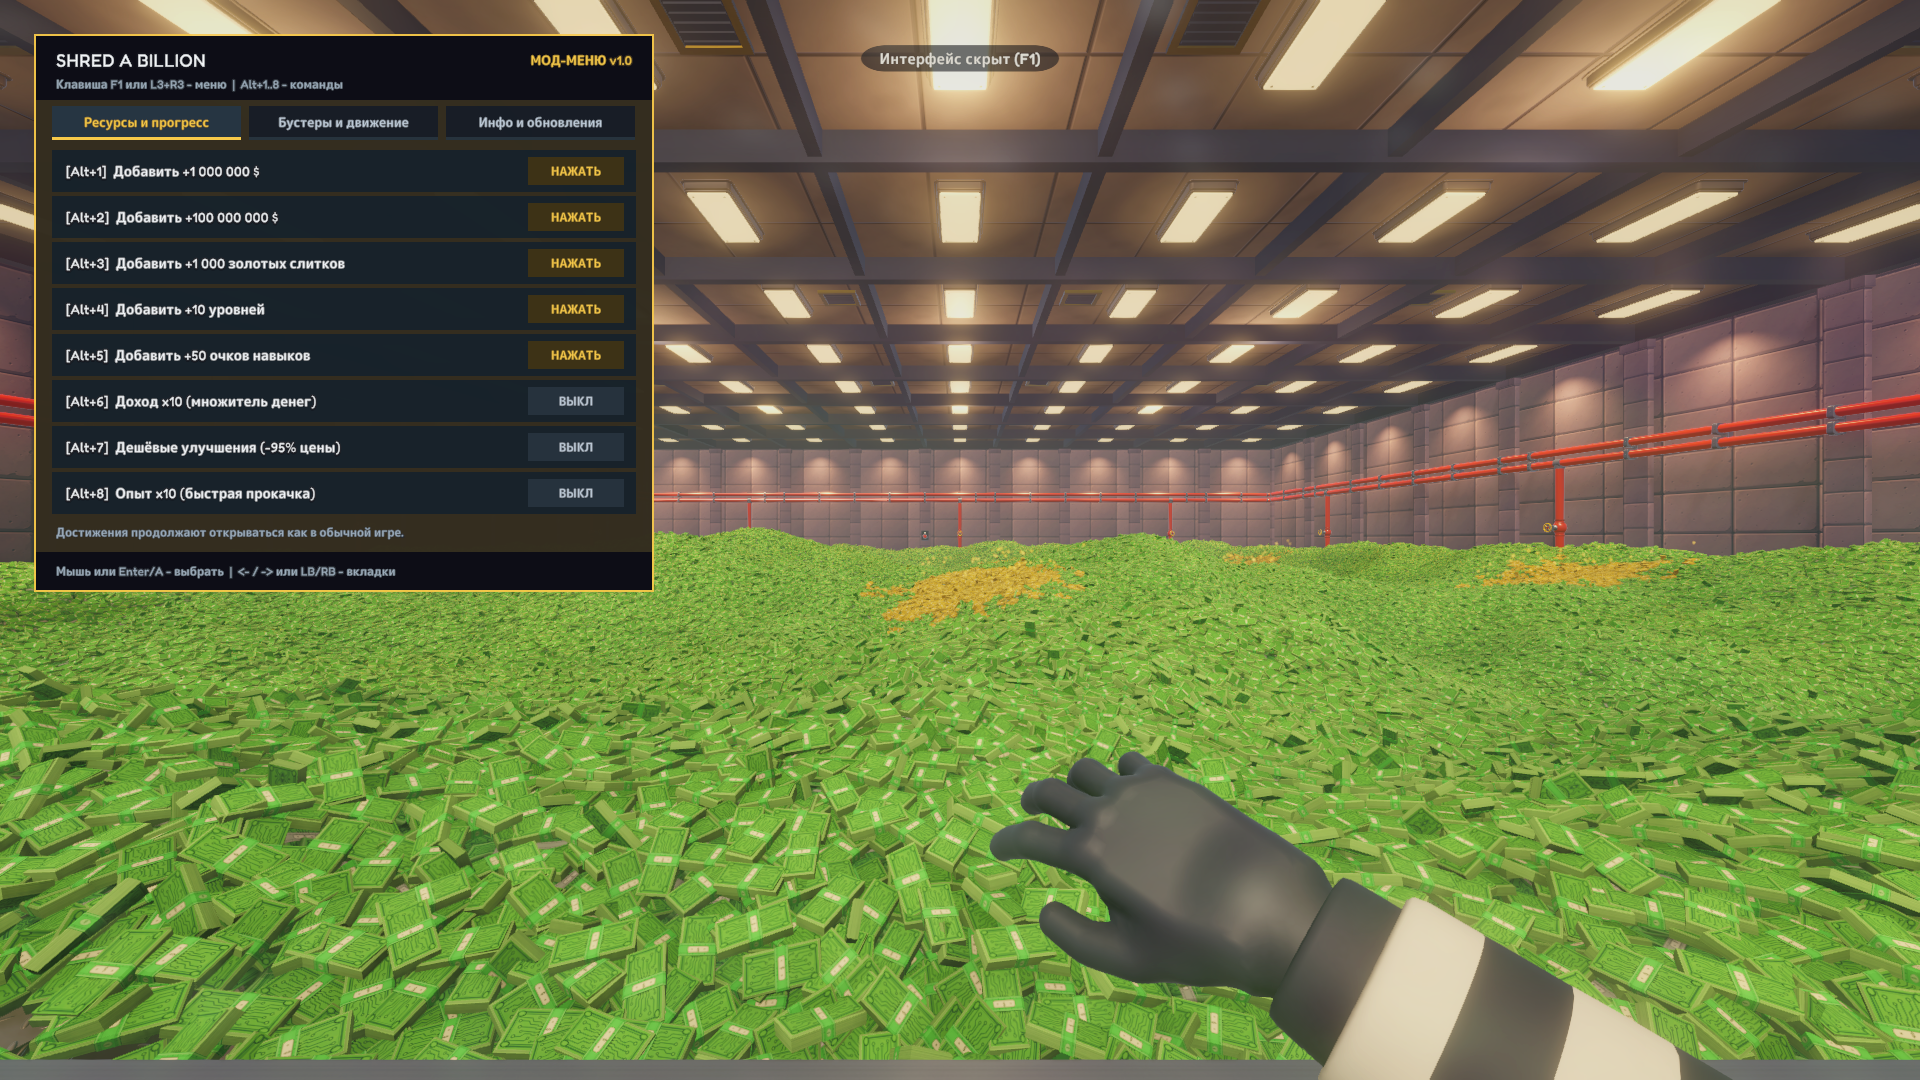
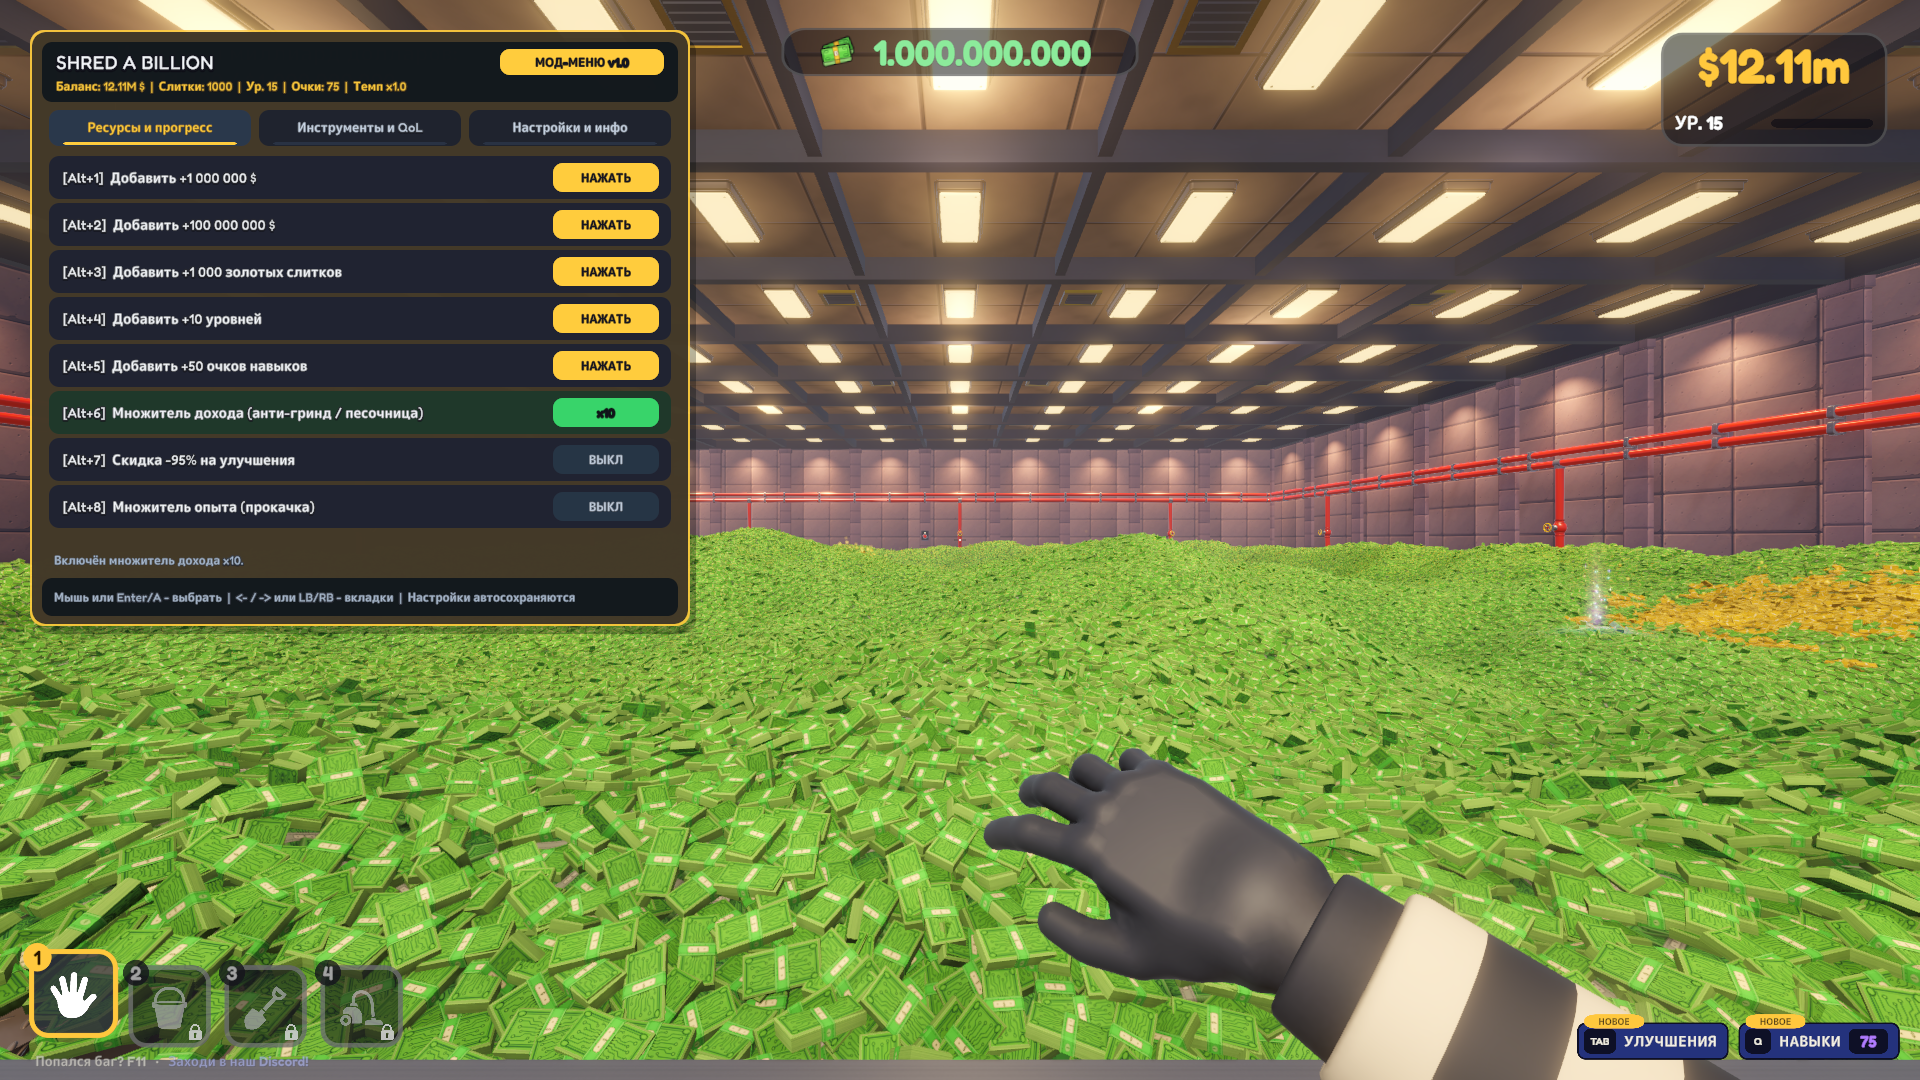
Обновить обложку, скриншоты, UTM-ссылки и стартовое сохранение v1.0

diff --git a/README.md b/README.md
@@ -1,11 +1,11 @@
-# SHRED A BILLION - Внутриигровое мод-меню, CheatMod и таблица Cheat Engine (.CT)
+# SHRED A BILLION - Внутриигровое мод-меню, стартовое сохранение и таблица Cheat Engine (.CT)
 
-Русское внутриигровое мод-меню (`v1.0`), чистое стартовое сохранение `CheatMod` и таблица Cheat Engine для **SHRED A BILLION** (Steam AppID `5472080`, проверено на версии `1.0.23`). Достижения продолжают открываться как в обычной игре, а вернуть чистую оригинальную игру можно в один клик без перекачивания в Steam.
+Русское внутриигровое мод-меню (`v1.0`), стилизованное под интерфейс **SHRED A BILLION**, готовое стартовое сохранение и таблица Cheat Engine (Steam AppID `5472080`, проверено на версии `1.0.23`). Достижения продолжают открываться как в обычной игре, а вернуть чистую оригинальную игру можно в один клик без перекачивания в Steam.
 
 ## Скачать
-- **[Страница релиза на Boosty (мод-меню на русском: открытый доступ через 48 часов, ранний доступ для подписчиков)](https://boosty.to/cd_tixo/posts/91615b98-617b-4e4e-8056-baf6eca9ae71)**
-- **[Каталог всех проектов автора на Boosty](https://boosty.to/cd_tixo/posts/2a55d7e9-0f53-4d93-9f66-280981158dec)**
-- **[GitHub Releases (открытая таблица .CT и CheatMod уже доступны)](https://github.com/neoru-droid/shred-a-billion-mod-ru/releases)**
+- **[Страница релиза на Boosty (мод-меню v1.0 с автосохранением и QoL - ранний доступ 48 часов, далее открыто всем)](https://boosty.to/cd_tixo/posts/91615b98-617b-4e4e-8056-baf6eca9ae71?utm_source=github&utm_medium=readme&utm_campaign=shred_a_billion)**
+- **[Каталог всех проектов автора на Boosty](https://boosty.to/cd_tixo/posts/2a55d7e9-0f53-4d93-9f66-280981158dec?utm_source=github&utm_medium=readme&utm_campaign=shred_a_billion)**
+- **[GitHub Releases (открытая таблица .CT и стартовое сохранение уже доступны)](https://github.com/neoru-droid/shred-a-billion-mod-ru/releases)**
 
 Поддерживаются **Windows 10 / 11** и **Steam Deck / Linux (Proton)**.
 
@@ -14,7 +14,7 @@
 ## Установка мод-меню
 1. **Windows:** закройте игру, распакуйте архив и запустите `ShredABillion-Trainer-Setup.exe` -> **«Установить мод-меню»**.
 2. **Steam Deck / Linux (Proton):** распакуйте архив и выполните `sh install-steamdeck.sh`, затем добавьте параметр запуска Steam: `WINEDLLOVERRIDES="winhttp=n,b" %command%`.
-3. **Управление в игре:** клавиша `F1` (или `L3 + R3` на геймпаде) открывает оверлей; `Alt+1..8` запускают быстрые команды.
+3. **Управление в игре:** клавиша `F1` или `F2` (либо `L3 + R3` на геймпаде) открывает оверлей; `Alt+1..8` запускают быстрые команды.
 
 ## Возможности внутриигрового мод-меню
 
@@ -28,14 +28,19 @@
 - `Alt+3` - Добавить +1 000 золотых слитков
 - `Alt+4` - Добавить +10 уровней
 - `Alt+5` - Добавить +50 очков навыков
-- `Alt+6` - Доход x10 (множитель денег)
-- `Alt+7` - Дешёвые улучшения (-95% цены)
-- `Alt+8` - Опыт x10 (быстрая прокачка)
+- `Alt+6` - Множитель дохода (`Выкл` / `x2` / `x10` / `x100`)
+- `Alt+7` - Скидка `-95%` на все улучшения
+- `Alt+8` - Множитель опыта (`Выкл` / `x2` / `x10` / `x100`)
 
-### Вкладка «Бустеры и движение»
-- Режим полёта и проход сквозь стены (`Noclip`)
-- Ускорение бега `x2.5`
-- Временные бустеры на 5 минут и комбо-активация всех бустеров
+### Вкладка «Инструменты и QoL»
+- Открытие всех инструментов сразу (ведро, лопата, пылесос)
+- Супер-магнит купюр на хранилище и вечные бустеры с автопродлением
+- QoL ускорение времени игры (`x1.0` / `x1.5` / `x2.0`) без искажения прогресса
+- Ускорение бега `x2.5`, режим полёта, сквозь стены (`Noclip`) и чистый экран без HUD
 
-## Таблица Cheat Engine (.CT) и сохранение CheatMod
-- В **GitHub Releases** доступны таблица `ShredABillion_RU_v1.0.CT` и стартовое сохранение `CheatMod` (`%USERPROFILE%\AppData\LocalLow\LightTriadGames\SHRED A BILLION\save.json`).
+### Вкладка «Настройки и инфо»
+- Автосохранение выбранных множителей и режимов между запусками игры
+- Быстрый сброс переключателей и проверка обновлений на Boosty
+
+## Таблица Cheat Engine (.CT) и стартовое сохранение
+- В **GitHub Releases** доступны открытая таблица `ShredABillion_RU_v1.0.CT` и архив стартового сохранения `ShredABillion-Save-v1.0.zip` (`%USERPROFILE%\AppData\LocalLow\LightTriadGames\SHRED A BILLION\save.json`).
